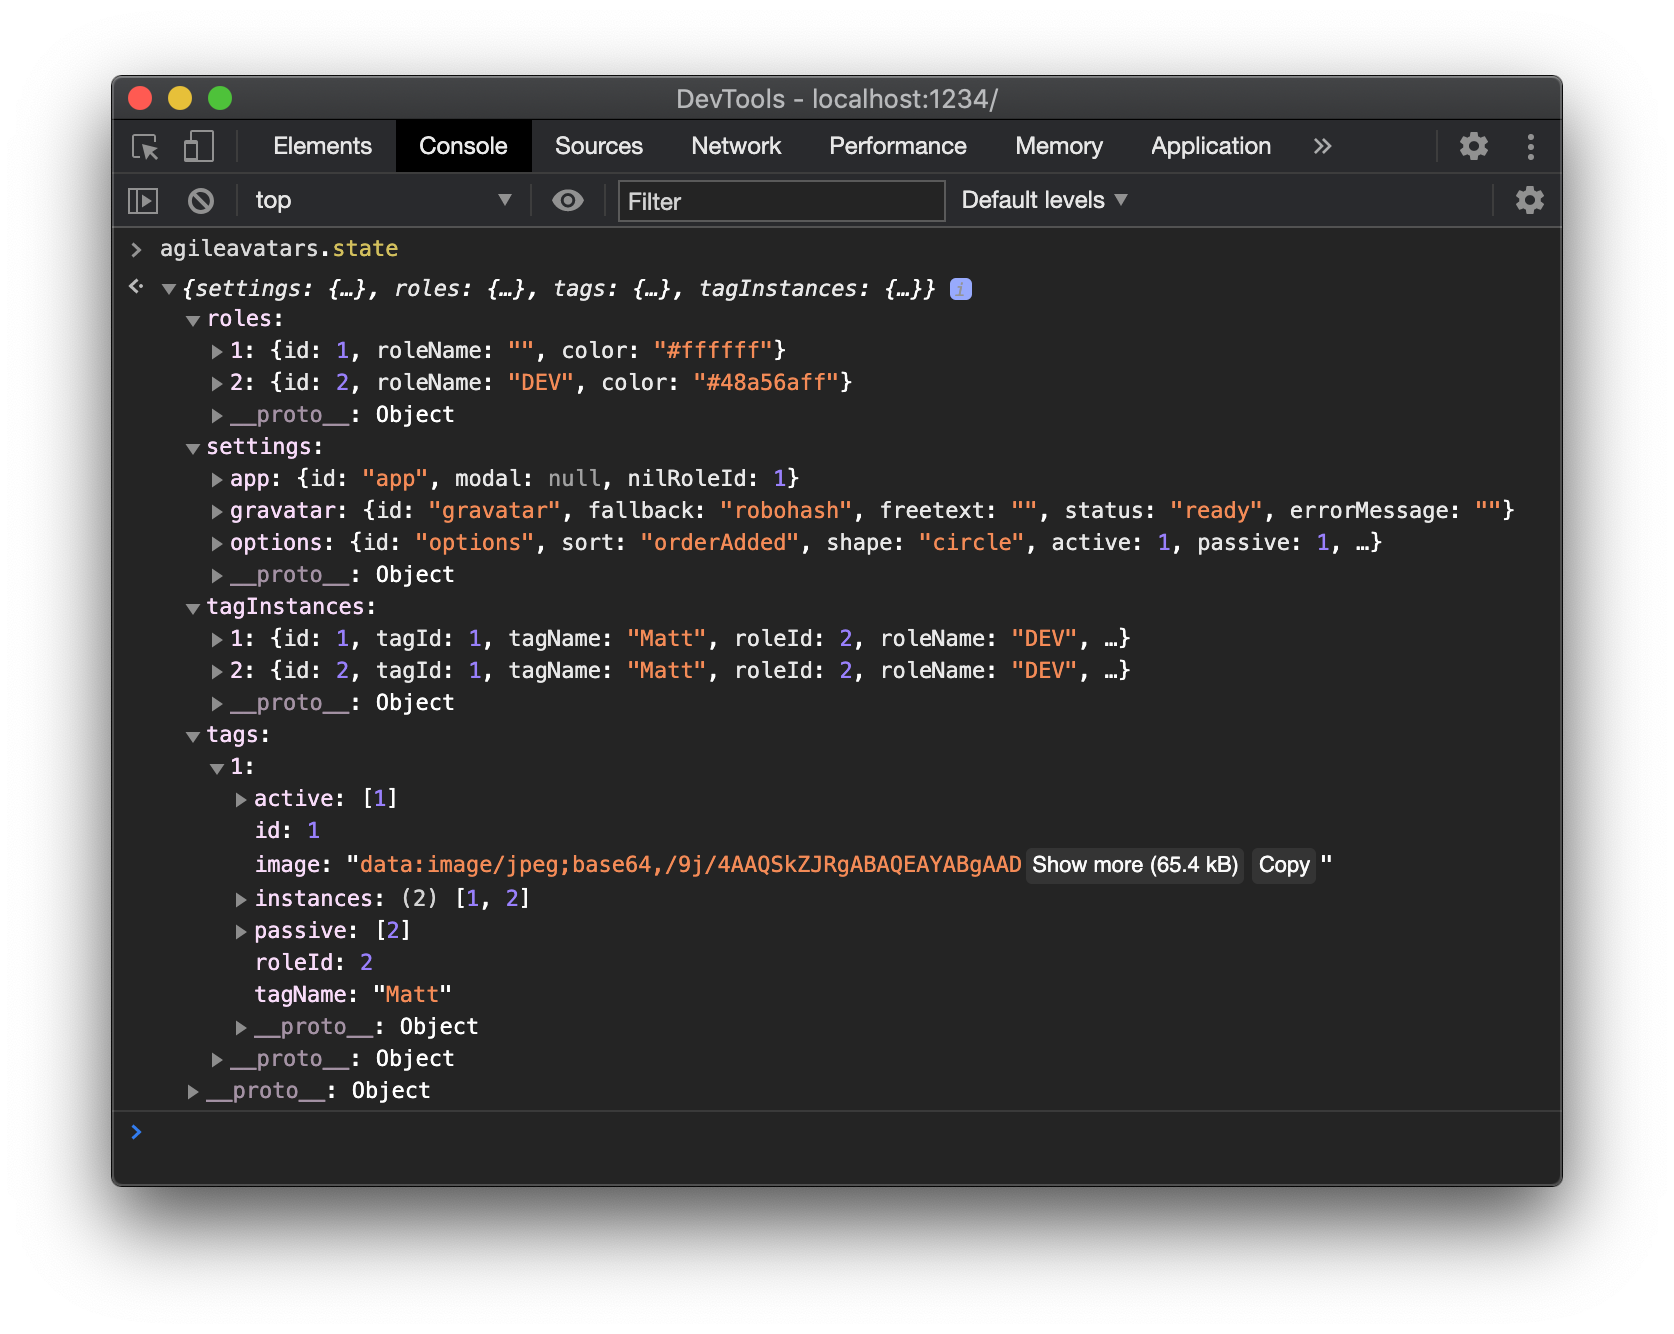
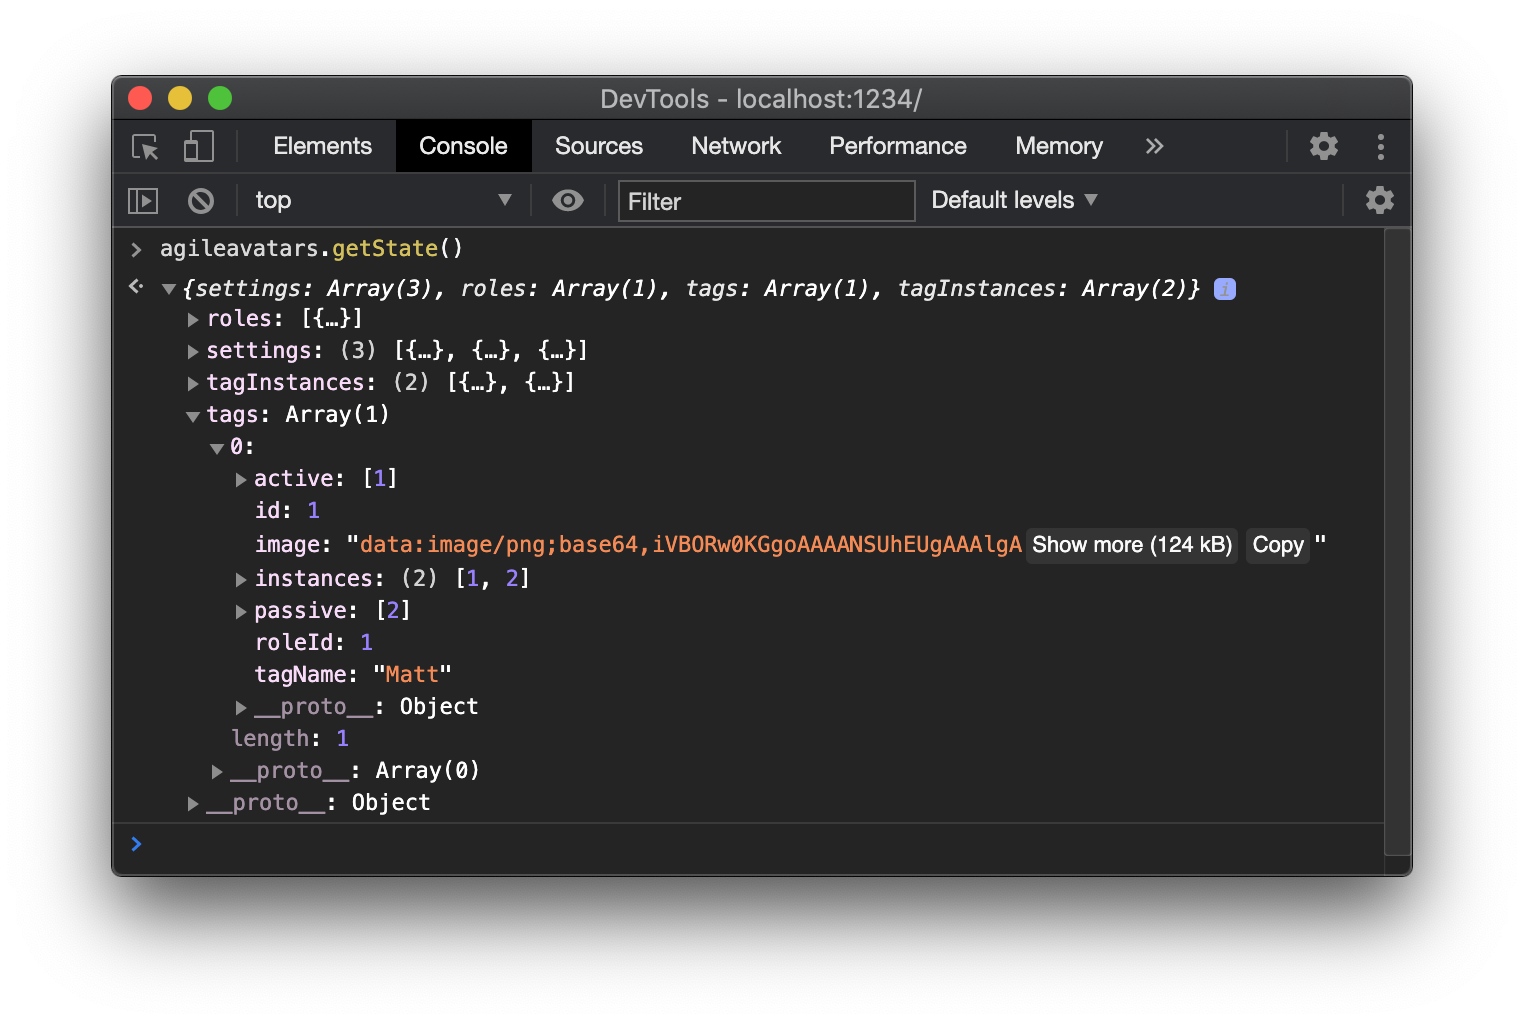
update screenshots

diff --git a/boot.js b/boot.js
@@ -24,6 +24,6 @@ module.exports = ({ window, ...overrides }) => {
     startup.insertNilRole({ config, stores });
     startup.createHandlers({ services, subscriptions, lib, config });
 
-    return { components, elements, services, core, subscriptions, stores, lib, config, getState };
+    return { components, elements, services, core, io, subscriptions, stores, lib, config, getState };
 
 };

diff --git a/README.md b/README.md
@@ -198,11 +198,11 @@ module.exports = ({ core, services, stores }) => (tagInstanceId, expression) => 
     const { tagId } = services.tags.getTagInstance(tagInstanceId);
     const { tagName, roleName } = core.tags.parseTagExpression(expression);
 
-    stores.tags.setState(tagId, { tagName });
+    stores.tags.update(tagId, { tagName });
 
     if (roleName) {
         const roleId = services.roles.findOrInsertRoleWithName(roleName);
-        stores.tags.setState(tagId, { roleId });
+        stores.tags.update(tagId, { roleId });
     }
     
 };
@@ -297,7 +297,7 @@ module.exports = ({ window, ...overrides }) => {
     sentry.init(config.sentry);
         
     // Data layer
-    const { state, stores, subscriptions } = startup.createStores({ lib, config });
+    const { stores, subscriptions, getState } = startup.createStores({ lib, config });
         
     // Domain layer
     const core = compose('core', { lib, config });
@@ -310,7 +310,7 @@ module.exports = ({ window, ...overrides }) => {
     startup.insertNilRole({ config, stores });
     startup.createHandlers({ services, subscriptions, lib, config });
 
-    return { components, elements, services, core, subscriptions, lib, config, state };
+    return { components, elements, services, core, io, subscriptions, stores, lib, config, getState };
 
 };
 ```
@@ -397,7 +397,7 @@ No attempt is made to generify the state management solution for reuse by other 
 
 State is managed by a series of _state stores_. 
 
-A **state store** is collection of data items keyed by a unique identifier and managed using typical CRUD operations such as `insert`, `remove`, `getState` and `setState`.
+A **state store** is collection of data items keyed by a unique identifier and managed using typical CRUD operations such as `insert`, `find`, `update`, `remove`.
 
 <details >
 <summary>src/lib/storage/state-store.js</summary>
@@ -405,15 +405,16 @@ A **state store** is collection of data items keyed by a unique identifier and m
 ```js
 const EventEmitter = require('events');
 
-module.exports = (state, defaults = {}) => {
+module.exports = (defaults = {}) => {
     let nextId = 1;
-    const operations = {};
+    const state = new Map();
+    const funcs = new Map();
     const collectionEmitter = new EventEmitter();
-
-    const manage = id => operations[id] ?? { getState: () => null };
-    const getArray = () => Object.values(state);
-    const getState = id => manage(id).getState();
-    const setState = (id, changes) => manage(id).setState(changes);
+    
+    const manage = id => funcs.get(id) ?? { get: () => null };
+    const list = () => [...state.values()];
+    const find = id => manage(id).get();
+    const update = (id, changes) => manage(id).update(changes);
 
     const onChange = (id, field, listener) => manage(id).subscriptions.onChange(field, listener);
     const onChangeAny = (field, listener) => collectionEmitter.on(`change:${field}`, listener);
@@ -427,9 +428,9 @@ module.exports = (state, defaults = {}) => {
         const item = { id, ...data };
         const itemEmitter = new EventEmitter();
 
-        const getState = () => ({ ...item });
+        const get = () => ({ ...item });
 
-        const setState = changes => {
+        const update = changes => {
             Object.entries(changes).forEach(([field, val]) => {
                 if (item[field] === val) return;
                 item[field] = val;
@@ -444,8 +445,8 @@ module.exports = (state, defaults = {}) => {
         };
 
         const subscriptions = { onChange };
-        operations[id] = { getState, setState, subscriptions };
-        state[id] = item;  
+        funcs.set(id, { get, update, subscriptions });
+        state.set(id, item);
 
         if (callback) callback(id);
         collectionEmitter.emit('firstInsert', id);
@@ -455,13 +456,13 @@ module.exports = (state, defaults = {}) => {
 
     const remove = id => {
         collectionEmitter.emit('beforeRemove', id);
-        delete operations[id];
-        delete state[id];
+        funcs.delete(id);
+        state.delete(id);
     };
     
     Object.entries(defaults).map(([id, entry]) => ({ id, ...entry })).forEach(entry => insert(entry));
 
-    return { manage, insert, remove, getArray, getState, setState, subscriptions };
+    return { insert, remove, list, find, update, subscriptions };
 
 };
 ```
@@ -473,9 +474,11 @@ __Example: Inserting a role using `insert`__
 <summary>src/services/roles/insert-role.js</summary>
 
 ```js
-module.exports = ({ stores, services, subscriptions }) => roleData => {
+module.exports = ({ stores, services, subscriptions, core }) => roleData => {
 
-    const role = services.roles.buildRole(roleData);
+    const randomColor = services.roles.randomColor();
+    
+    const role = core.roles.buildRole(roleData, randomColor);
 
     return stores.roles.insert(role, roleId => {
         subscriptions.roles.onChange(roleId, 'roleName', services.roles.setupRolePropagation(roleId));
@@ -485,17 +488,17 @@ module.exports = ({ stores, services, subscriptions }) => roleData => {
 ```
 </details>
 
-__Example: Changing a role name using `getState` and `setState`__
+__Example: Changing a role name using `find` and `update`__
 
 <details open>
 <summary>src/services/roles/change-role-name.js</summary>
 
 ```js
-module.exports = ({ services, stores }) => (roleId, roleName) => {
+module.exports = ({ core, stores }) => (roleId, roleName) => {
 
-    const oldState = stores.roles.getState(roleId);
-    const newState = services.roles.buildRole({ ...oldState, roleName });
-    stores.roles.setState(roleId, newState);
+    const oldState = stores.roles.find(roleId);
+    const newState = core.roles.buildRole({ ...oldState, roleName });
+    stores.roles.update(roleId, newState);
     
 };
 ```
@@ -641,8 +644,8 @@ module.exports = ({ test, setup }) => {
         const { components } = boot({
             services: {
                 gravatar: {
-                    fetchProfileAsync: () => ({ displayName: 'foo' }),
-                    fetchImageAsync: () => new window.Blob(['BYTES'], { type: 'image/jpg' })
+                    fetchProfileAsync: () => Promise.resolve({ displayName: 'foo' }),
+                    fetchImageAsync: () => Promise.resolve(new window.Blob(['BYTES'], { type: 'image/jpg' }))
                 }
             }
         });
@@ -662,7 +665,8 @@ module.exports = ({ test, setup }) => {
         await helpers.onTagListMutation(
             $tagList,
             () => {
-                helpers.dispatchEvent('click', $importButton);                
+                helpers.dispatchEvent('click', $importButton);    
+
             },
             async tag1 => {
                 t.equal(tag1.getTagName(), 'Foo');

diff --git a/task-helpers/readme-gen/src/README-TEMPLATE.md b/task-helpers/readme-gen/src/README-TEMPLATE.md
@@ -196,7 +196,7 @@ No attempt is made to generify the state management solution for reuse by other 
 
 State is managed by a series of _state stores_. 
 
-A **state store** is collection of data items keyed by a unique identifier and managed using typical CRUD operations such as `insert`, `remove`, `getState` and `setState`.
+A **state store** is collection of data items keyed by a unique identifier and managed using typical CRUD operations such as `insert`, `find`, `update`, `remove`.
 
 <%- renderJsFile('src/lib/storage/state-store.js', { open: false }) %>
 
@@ -204,7 +204,7 @@ __Example: Inserting a role using `insert`__
 
 <%- renderJsFile('src/services/roles/insert-role.js') %>
 
-__Example: Changing a role name using `getState` and `setState`__
+__Example: Changing a role name using `find` and `update`__
 
 <%- renderJsFile('src/services/roles/change-role-name.js') %>
 
